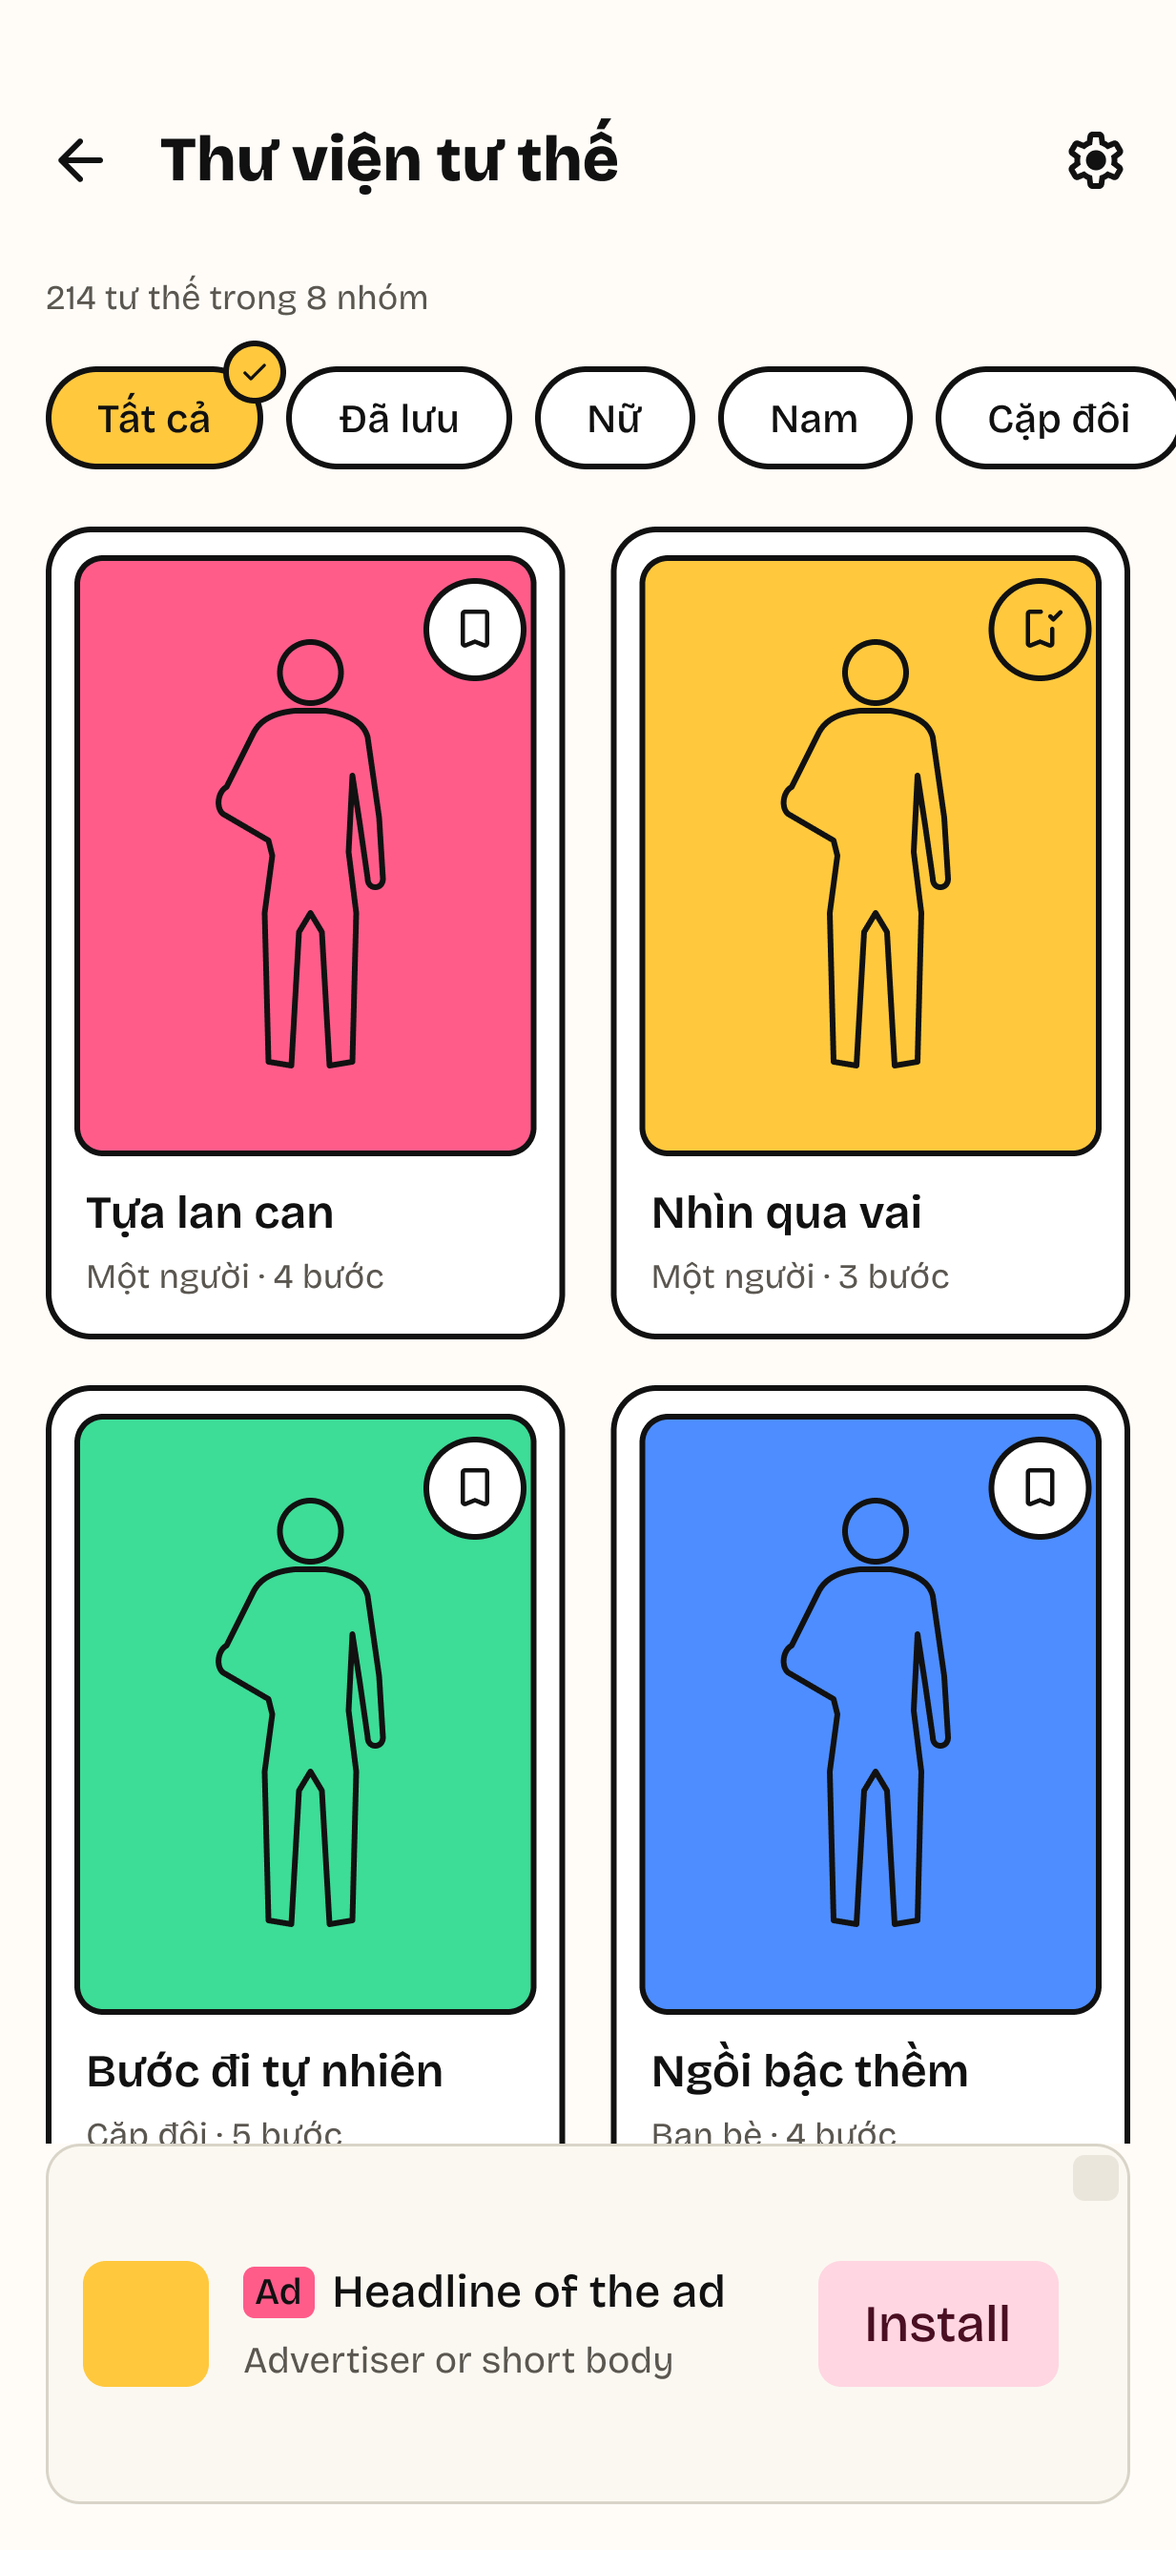
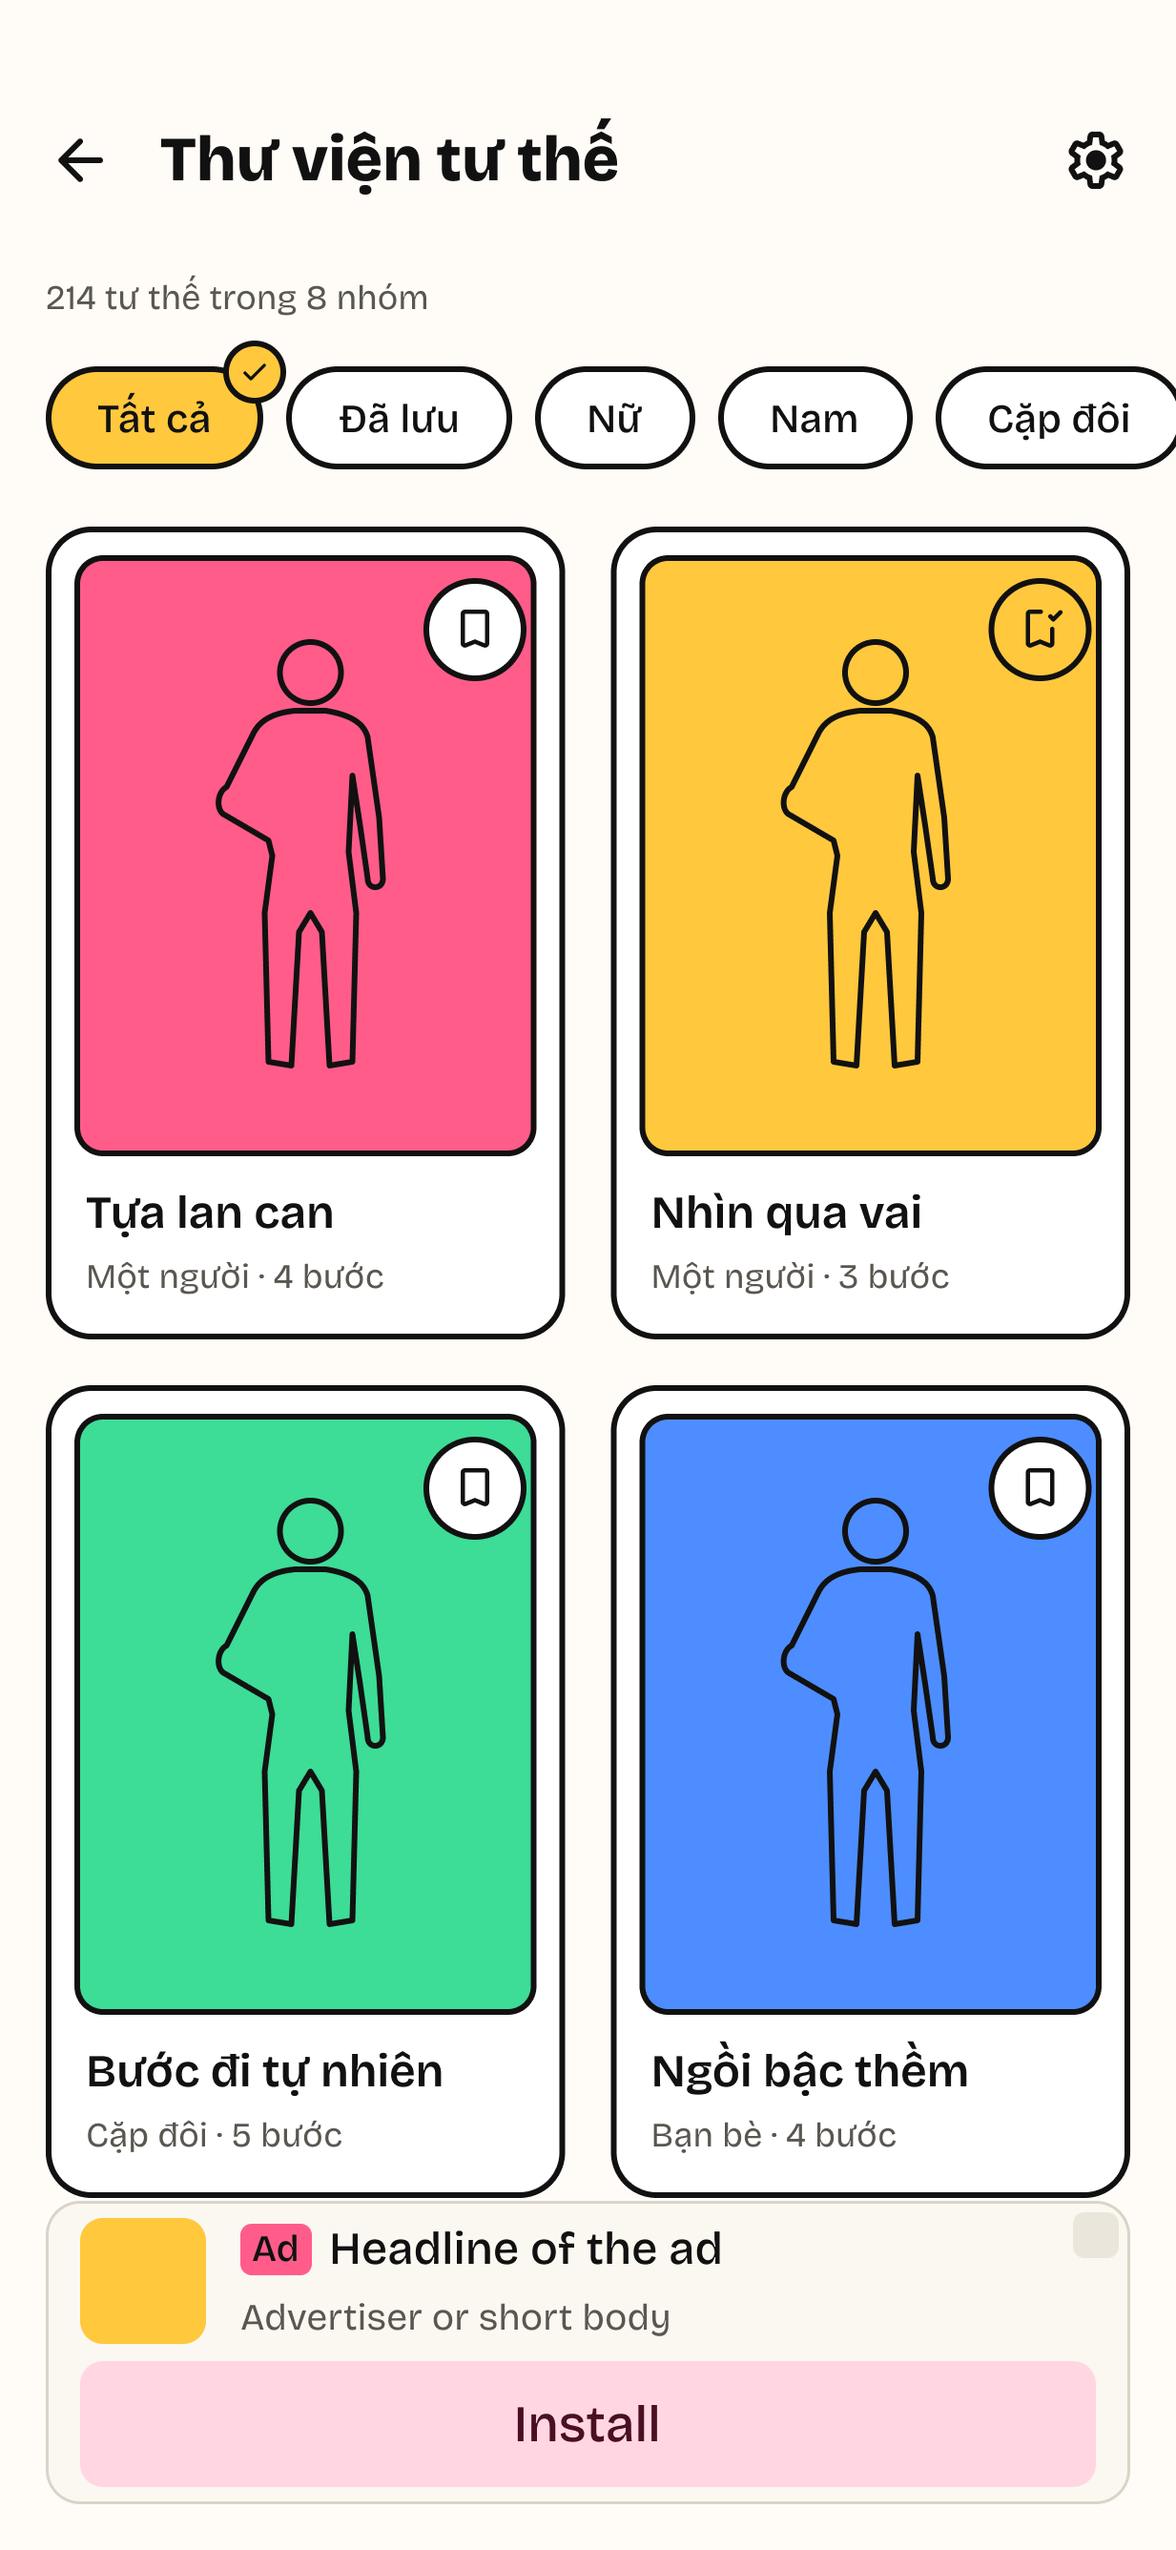
Thiết kế trạng thái ad vẽ lại theo thẻ native hai tầng; spec sửa theo rà soát lại
Figma: component NativeAdSmall sửa tại chỗ theo Native/Small của mẫu (106
dp ở mọi khung), 8 frame _ad của thư viện, chi tiết, cài đặt, màn xem
lại chừa 122 dp; xuất lại bằng scripts/figma-export.py. Spec: bảng vị trí
của poses ghi pose_detail_bottom không có lớp nổi; câu 22 nêu các bước
lớp nổi của manual-test.md phải sửa; ý g sau ý f; tiêu chí 3 nói rõ
"trước quảng cáo đầu".

Claude-Session: https://claude.ai/code/session_0117CzmWSSft5tzLLXwZoAFs

Changed region(s): [[0.0308, 0.8384, 0.9862, 0.9936]]

diff --git a/docs/features/camera/design/README.md b/docs/features/camera/design/README.md
@@ -103,7 +103,7 @@ Dấu ba chấm là một ký tự (`…`).
 | Xem lại: nút chính | `PrimaryButton` `download` | `secondary` (tối: trắng), `onSecondary` | | Rộng hết, cách đáy `Spacing.lg` |
 | Xem lại: lưu lỗi | `Snackbar` | `inverseSurface`, `inverseOnSurface`, `inversePrimary` | | Trên nút chính `Spacing.md` |
 | Xem lại: hỏi bỏ ảnh | `ConfirmDialog` trên lớp mờ 50% | `surface`, viền `outline` | | Rộng 331 |
-| Xem lại: thanh đáy native | `BottomAdBarScaffold` của `:core:ads` (component Figma `NativeAdSmall`, theo `NativeAdCard` cỡ `SMALL`); không có lớp native thu gọn nổi (spec ads, câu 19, ý e) | Theo khung, chế độ tối: nền `surfaceContainerLow`, viền `outlineVariant` 1, icon `secondaryContainer`, nhãn "Ad" `tertiary`, nút `tertiaryContainer` | Theo khung | Khe cao theo cạnh ngắn của cửa sổ (theo khung, `docs/ops/ads-business-rules.md`, D-02): 126 ở khung chuẩn, 200 ở khung mở gập; thẻ: icon 44, nhãn "Ad" 13 sp trước tiêu đề 16 sp một dòng, dòng dưới 13 sp tối đa 2 dòng, CTA cao 44 chữ 18 sp rộng theo chữ; cách mép trái, phải, đáy `Spacing.md`; nội dung chừa 142 ở đáy (khung mở gập: 216). Điện thoại: ảnh co lại theo chỗ còn lại, giữ 3:4: 355 x 473 ở khung chuẩn (bố cục có sẵn của màn: ảnh, `Spacing.lg`, hàng nút phụ, `Spacing.md`, nút chính, 20 trên thanh); hàng nút phụ ở y 585, nút chính ở y 669 (nút chính trong code cao 56, frame vẽ 60, nên khoảng giữa hai hàng trên frame là 12). Gập mở: thanh 641 x 200 rộng hết dưới cả ảnh và cột phải; ảnh 400 x 533, cột phải từ x 432 rộng 225; nút chính cách thanh 20 (lề dưới của nút chính trong code; frame vẽ 16) |
+| Xem lại: thanh đáy native | `BottomAdBarScaffold` của `:core:ads` (component Figma `NativeAdSmall`, theo `NativeAdCard` cỡ `SMALL`); không có lớp native thu gọn nổi (spec ads, câu 19, ý e) | Theo khung, chế độ tối: nền `surfaceContainerLow`, viền `outlineVariant` 1, icon `secondaryContainer`, nhãn "Ad" `tertiary`, nút `tertiaryContainer` | Theo khung | Khe cao theo nội dung (theo khung, `docs/ops/ads-business-rules.md`, D-02): 106 ở cỡ chữ mặc định ở mọi khung; thẻ hai tầng: hàng trên icon 44, nhãn "Ad" 13 sp trước tiêu đề 16 sp một dòng, dòng dưới 13 sp một dòng; tầng dưới CTA ngang hết thẻ cao 44 chữ 18 sp; cách mép trái, phải, đáy `Spacing.md`; nội dung chừa 122 ở đáy (cả khung mở gập). Điện thoại: ảnh co lại theo chỗ còn lại, giữ 3:4: 370 x 493 ở khung chuẩn (bố cục có sẵn của màn: ảnh, `Spacing.lg`, hàng nút phụ, `Spacing.md`, nút chính, 20 trên thanh); hàng nút phụ ở y 605, nút chính ở y 689 (nút chính trong code cao 56, frame vẽ 60, nên khoảng giữa hai hàng trên frame là 12). Gập mở: thanh 641 x 106 rộng hết dưới cả ảnh và cột phải; ảnh 448 x 597, giới hạn theo bề rộng cột ảnh như code vẽ; cột phải từ x 482 rộng 175; nút chính cách thanh 20 (lề dưới của nút chính trong code; frame vẽ 16) |
 
 - **Thành phần mới cần thêm vào hệ thống thiết kế:** `CameraIconButton`, `StickerChip`, `SelectedBadge`, `PoseThumb`, `StepCard`, `ZoomControl`, `MatchHint`, `AdjustPanel`, `GridOverlay`, `StateMessage`, `SecondaryButton` (xem `sticker.md`, mục 4).
 
@@ -120,6 +120,8 @@ Dấu ba chấm là một ký tự (`…`).
 ## 5. Vị trí quảng cáo
 
 Thiết kế trạng thái `ad` vẽ lại ngày 2026-11-16 theo thẻ native nhỏ mới của khung (component `Native/Small` của dự án mẫu): khe 126 ở khung chuẩn thay khe 80; Nhật duyệt trong phiên ("Duyệt").
+
+Vẽ lại ngày 2026-11-21 theo thẻ native nhỏ hai tầng của khung (component `Native/Small` của dự án mẫu, đợt T-108 của mẫu; spec ads, câu 22, ý a): component `NativeAdSmall` sửa tại chỗ, cao 106 ở cỡ chữ mặc định ở mọi khung (lề trái phải 12, trên dưới 6; hàng trên 44 gồm icon 44, cách 12, cột chữ: nhãn "Ad" 13 sp trước tiêu đề 16/22 sp một dòng, cách 4, nhà quảng cáo hay mô tả 13/18 sp một dòng, chừa 16 bên phải cho AdChoices; cách 6; nút ngang hết thẻ cao 44, chữ 18 sp; viền 1 vẽ phía trong). Khe ở y 769 tới 875 ở khung 411 x 891, y 719 tới 825 ở khung mở gập; nội dung chừa 122 ở đáy. Chờ Nhật duyệt.
 
 `review_interstitial`: toàn màn hình, hiện khi rời `ReviewScreen` sau khi đã lưu ảnh, trước khi về camera (spec mục 5). `review_bottom` (spec ads, câu 19): thanh đáy native nhỏ ở đáy `ReviewScreen`, dưới mọi nút, ở mọi trạng thái của màn (ảnh `ReviewScreen_ad_*`); ảnh co lại cho vừa phần còn lại, không bị cắt hay che. Khóa tắt, quảng cáo đang tải hay không có thì không chừa khoảng trống (ảnh `default`). Hộp thoại "Bỏ ảnh này?" và thông báo lưu lỗi phủ lên như hôm nay. `is_show_native_bottom` tắt thì khe là banner ở cùng chỗ; không có lớp quảng cáo nổi dù `is_show_native_collap` bật (spec camera, KB-9). Bo góc 12, bo ảnh và nút 8, khoảng cách 12, cỡ chữ 13, 16 và 18 của thẻ là số của khung (`NativeAdDimens`); `context/` ghi "ngoài hệ thống", không làm tròn hay thêm token. Vị trí từng phần lấy theo `context/` của từng frame; nút chính cách thanh 20 ở cả điện thoại lẫn máy gập mở ra (frame máy gập vẽ 16, code giữ 20). Chữ của thẻ là chữ giả của ảnh chuẩn `NativeAdCard`, không vào bảng chữ. Không có vùng quảng cáo nào trên `CameraScreen`.
 

diff --git a/docs/features/poses/design/README.md b/docs/features/poses/design/README.md
@@ -41,6 +41,8 @@ Từ T-079 (câu hỏi 5 của spec, 2026-10-30), trạng thái `ad` vẽ thanh 
 
 Thiết kế trạng thái `ad` vẽ lại ngày 2026-11-16 theo thẻ native nhỏ mới của khung (component `Native/Small` của dự án mẫu): khe 126 ở khung chuẩn thay khe 80; Nhật duyệt trong phiên ("Duyệt").
 
+Vẽ lại ngày 2026-11-21 theo thẻ native nhỏ hai tầng của khung (component `Native/Small` của dự án mẫu, đợt T-108 của mẫu; spec ads, câu 22, ý a): component `NativeAdSmall` sửa tại chỗ, cao 106 ở cỡ chữ mặc định ở mọi khung (lề trái phải 12, trên dưới 6; hàng trên 44 gồm icon 44, cách 12, cột chữ: nhãn "Ad" 13 sp trước tiêu đề 16/22 sp một dòng, cách 4, nhà quảng cáo hay mô tả 13/18 sp một dòng, chừa 16 bên phải cho AdChoices; cách 6; nút ngang hết thẻ cao 44, chữ 18 sp; viền 1 vẽ phía trong). Khe ở y 769 tới 875 ở khung 411 x 891, y 719 tới 825 ở khung mở gập; nội dung chừa 122 ở đáy. Chờ Nhật duyệt.
+
 ## 2. Bảng chữ
 
 | Màn hình, trạng thái | Vị trí | Chữ | Kiểu chữ |
@@ -86,7 +88,7 @@ Loại tư thế: Một người, Cặp đôi, Nhóm. Khung hình: Toàn thân, 
 | Các bước | `Row`: số trong vòng 28 và chữ | Vòng `secondaryContainer`, viền `outline` | `labelLarge`, `bodyMedium` | Cách nhau `Spacing.sm` |
 | Lỗi hay gặp | `Row`: icon `warning` và chữ | `tertiaryContainer`, `onTertiaryContainer`, viền `outline` | `titleSmall`, `bodyMedium` | Lề trong `Spacing.md`, bo `card` |
 | Thanh nút đáy ở chi tiết | Đường kẻ 2 và `PrimaryButton` `photo_camera` | Đường kẻ `outlineVariant`; nền `background` | | Cao 96; nút rộng hết trừ lề `Spacing.md` |
-| Thanh đáy native | `BottomAdBarScaffold` của `:core:ads` (component Figma `NativeAdSmall`, theo `NativeAdCard` cỡ `SMALL`) | Theo khung: nền `surfaceContainerLow`, viền `outlineVariant` 1, icon `secondaryContainer`, nhãn "Ad" `tertiary`, nút `tertiaryContainer` | Theo khung | Khe cao theo cạnh ngắn của cửa sổ (theo khung, `docs/ops/ads-business-rules.md`, D-02): 126 ở khung chuẩn, 200 ở khung mở gập; thẻ: icon 44, nhãn "Ad" 13 sp trước tiêu đề 16 sp một dòng, dòng dưới 13 sp tối đa 2 dòng, CTA cao 44 chữ 18 sp rộng theo chữ; cách mép trái, phải, đáy `Spacing.md`; nội dung chừa 142 ở đáy; thanh nút đáy ở chi tiết nằm ngay trên khe |
+| Thanh đáy native | `BottomAdBarScaffold` của `:core:ads` (component Figma `NativeAdSmall`, theo `NativeAdCard` cỡ `SMALL`) | Theo khung: nền `surfaceContainerLow`, viền `outlineVariant` 1, icon `secondaryContainer`, nhãn "Ad" `tertiary`, nút `tertiaryContainer` | Theo khung | Khe cao theo nội dung (theo khung, `docs/ops/ads-business-rules.md`, D-02): 106 ở cỡ chữ mặc định ở mọi khung; thẻ hai tầng: hàng trên icon 44, nhãn "Ad" 13 sp trước tiêu đề 16 sp một dòng, dòng dưới 13 sp một dòng; tầng dưới CTA ngang hết thẻ cao 44 chữ 18 sp; cách mép trái, phải, đáy `Spacing.md`; nội dung chừa 122 ở đáy; thanh nút đáy ở chi tiết nằm ngay trên khe |
 | Ô quảng cáo trong lưới | `itemsWithInListAds` của `:core:ads` (component Figma `NativeAdCard`, theo `NativeAdCard` cỡ `CARD`) | Như thanh đáy; ảnh `surfaceContainer` | Theo khung | Chiếm một ô, cùng cỡ thẻ tư thế; lề trong `Spacing.sm` |
 | Dấu premium | `PremiumBadge` (mới, `:core:designsystem`; component Figma `PremiumBadge`, ba cỡ) | Nền `tertiaryContainer`, viền `outline` `Stroke.sticker`, icon `workspace_premium` màu `onTertiaryContainer` | | `Size=Card` 32, icon 20: góc trên trái ảnh của thẻ, ở (6, 10) trong ảnh, tâm đối xứng nút lưu 36 qua trục giữa; `Size=Inline` 20, icon 14: đầu dòng phụ của chi tiết, cách chữ `Spacing.sm`; `Size=Thumb` 22, icon 14: ô 64 của camera (gói `camera`). Không làm mờ hay che ảnh |
 | Thẻ tư thế premium | `PoseCard(premium = true)` (Figma `PoseCard`, `Premium=Yes`) | Như thẻ thường | | Dấu và nút lưu cùng lúc được |

diff --git a/docs/features/poses/spec.md b/docs/features/poses/spec.md
@@ -117,7 +117,7 @@ Tiêu chí chấp nhận:
 
 - [ ] Khi khóa `is_show_poses_bottom` bật, `is_show_native_bottom` bật và người dùng đã đồng ý theo hộp thoại đồng ý thì thanh đáy native nhỏ (cao theo khung, `docs/ops/ads-business-rules.md`, D-02) hiện ở đáy thư viện; lưới cuộn phía trên thanh, thẻ cuối không bị che (câu hỏi 1).
 - [ ] Khi khóa `is_show_pose_detail_bottom` bật thì thanh đáy native hiện ở đáy chi tiết, dưới nút "Chụp với tư thế này"; nút không bị che hay đẩy ra ngoài màn hình, kể cả khi `is_show_native_collap` bật: chi tiết không có lớp quảng cáo nổi (`features/ads/spec.md`, câu 22, ý g).
-- [ ] Khi khóa tắt hay quảng cáo không tải được thì không chừa khoảng trống. Khi khe đang tải lượt đầu thì nội dung chừa đúng chỗ khe chiếm (khung chờ của native, khung của banner); thẻ cuối không bị che (`features/ads/spec.md`, câu 22, ý b).
+- [ ] Khi khóa tắt hay chưa tải được quảng cáo nào (lỗi trước quảng cáo đầu) thì không chừa khoảng trống. Khi khe đang tải lượt đầu thì nội dung chừa đúng chỗ khe chiếm (khung chờ của native, khung của banner); thẻ cuối không bị che (`features/ads/spec.md`, câu 22, ý b).
 - [ ] Khi `is_show_native_collap` tắt (giá trị lúc phát hành) thì không có lớp quảng cáo nổi trên lưới hay trên nút chính.
 - [ ] Khi `is_show_native_collap` và `is_show_poses_in_collection` cùng bật thì thư viện không có lớp quảng cáo nổi, vì lưới có quảng cáo trong nội dung; khi `is_show_poses_in_collection` tắt thì lớp nổi hiện như thường (`features/ads/spec.md`, câu 22, ý e).
 - [ ] Khi khóa `is_show_poses_in_collection` bật thì lưới có một ô quảng cáo sau mỗi `native_every_poses_in_collection` tư thế (mặc định 8), không ở đầu, không ở cuối lưới; thẻ quảng cáo có nhãn quảng cáo và khác rõ thẻ tư thế; hết quảng cáo thì ô ẩn, lưới không có ô trống. Áp dụng cho "Tất cả" và từng nhóm, cả khi mở gập (3 cột).
@@ -171,7 +171,7 @@ Tư thế premium (KB-8) cần thiết kế mới trên Figma:
 | Vị trí | Định dạng | Khi nào hiển thị | Giới hạn tần suất | Cờ bật tắt |
 | --- | --- | --- | --- | --- |
 | `poses_bottom` | native_small (thanh đáy) | Đáy màn thư viện, khi màn hình đang mở | Thay nội dung tại chỗ mỗi 60 giây khi app ở foreground; lớp thu gọn tắt lúc phát hành | `is_show_poses_bottom`, cùng `is_show_native_bottom` |
-| `pose_detail_bottom` | native_small (thanh đáy) | Đáy màn chi tiết tư thế, dưới nút chính | Như trên | `is_show_pose_detail_bottom`, cùng `is_show_native_bottom` |
+| `pose_detail_bottom` | native_small (thanh đáy) | Đáy màn chi tiết tư thế, dưới nút chính | Thay nội dung tại chỗ mỗi 60 giây khi app ở foreground; không bao giờ có lớp native thu gọn nổi, dù `is_show_native_collap` bật (`features/ads/spec.md`, câu 22, ý g) | `is_show_pose_detail_bottom`, cùng `is_show_native_bottom` |
 | `poses_in_collection` | native_in_collection | Ô xen trong lưới thư viện, sau mỗi 8 tư thế; không ở đầu, không ở cuối | Pool 5 quảng cáo, hết hạn 55 phút; tắt lúc phát hành | `is_show_poses_in_collection`, `native_every_poses_in_collection` |
 | `inter_pose_detail` | interstitial | Sau khi bấm "Chụp với tư thế này", trước khi camera mở | Nhịp chung `ads_interval` (mặc định 45 giây), cùng nhóm với `review_interstitial`; tắt lúc phát hành | `is_show_inter_pose_detail` |
 | `rw_premium_pose` (yêu cầu 2026-10-31) | rewarded | Khi người dùng bấm "Xem quảng cáo" ở hộp thoại mở khóa tư thế premium (KB-8) | Không qua `ads_interval`, không đẩy mốc (khung); chỉ khi người dùng chọn. Không có quảng cáo thì chặn, tư thế vẫn khóa (câu 8). Bật lúc phát hành khi catalog có tư thế premium (câu 10) | `is_show_rw_premium_pose` |
